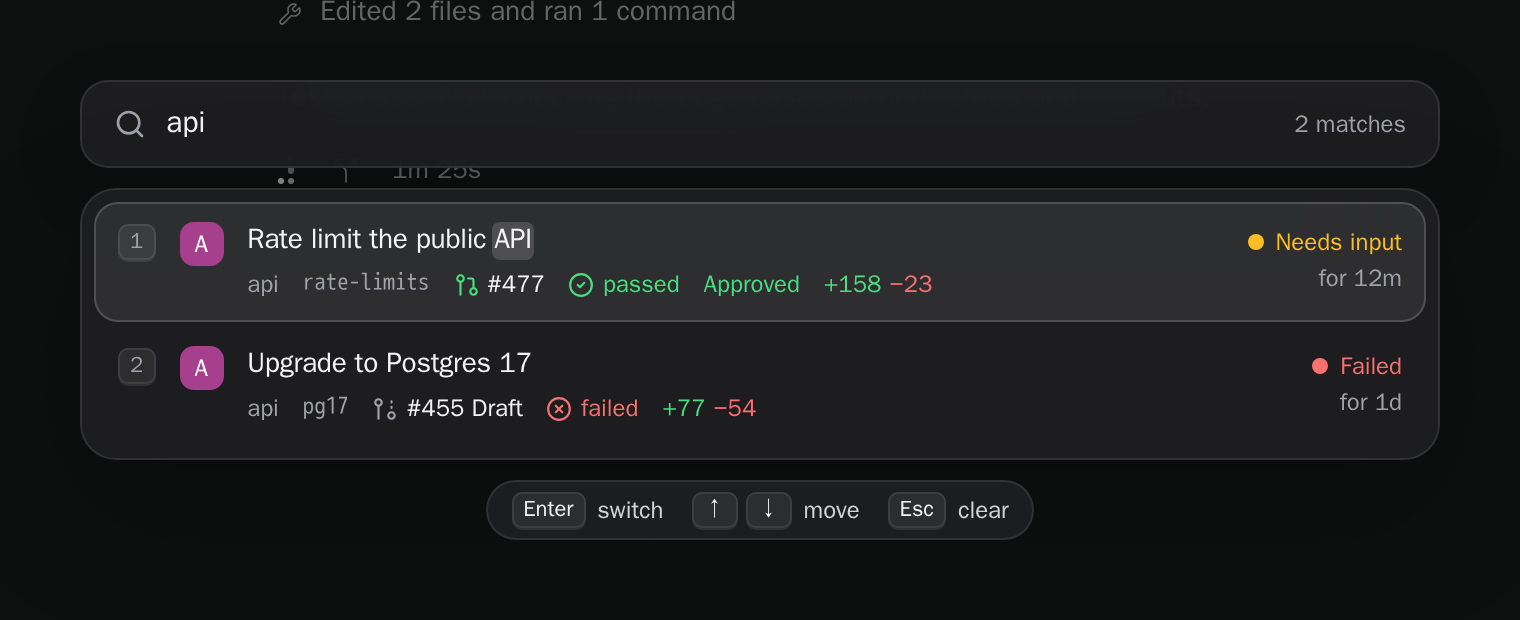
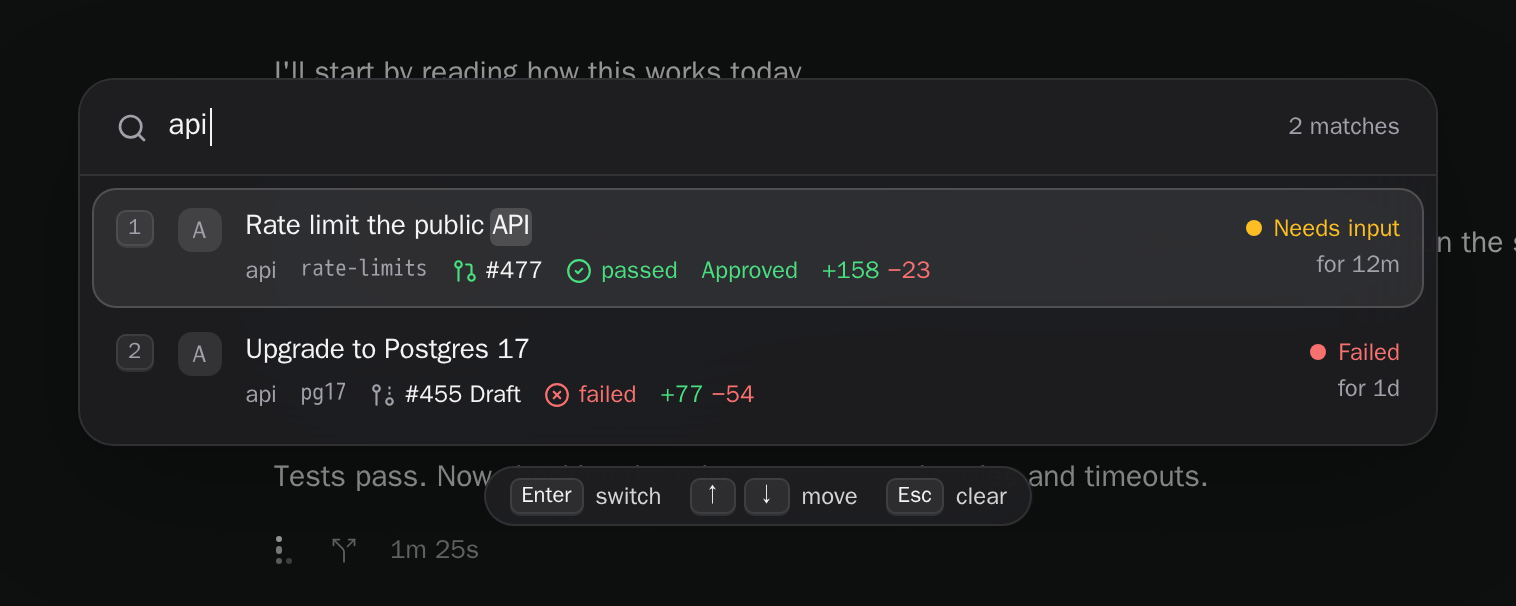
fix: one sheet pinned near the top, honest times and tiles, phone list
From the impeccable finish review:
- The query is the sheet's own header and the sheet is pinned near the top,
  so typing never moves the rows and no page text shows between them.
- Thumbnails crop from the top-left, so the workspace title is never cut.
- Project tiles are neutral; the hashed colours never matched the sidebar.
- Idle times use the workspace's activity time, the one the sidebar shows.
- Phones and windows under 600px use the list; an overflowing strip fades
  at its edges; thumbnail names wrap to two lines.
- The match count reads "9 of 14", not "9+".
- Touch screens get their own single-workspace note.
- Add PRODUCT.md (inferred, labelled) and re-record the README media.

diff --git a/client/switcher.ts b/client/switcher.ts
@@ -125,6 +125,8 @@ export function installSwitcher(paseo: Paseo): Switcher {
   let dark = false;
   /** Typed while the switcher is open; filters every workspace, not only recent ones. */
   let query = "";
+  /** Every match for the query; only the first MAX_LIMIT are listed. */
+  let matches = 0;
   /** The host of the loaded workspace list, for when neither the route nor the history names one. */
   let homeServer: string | null = null;
   const coarse = Boolean(win.matchMedia?.("(hover: none) and (pointer: coarse)").matches);
@@ -202,8 +204,8 @@ export function installSwitcher(paseo: Paseo): Switcher {
             status: w.status,
             additions: w.diffStat?.additions ?? 0,
             deletions: w.diffStat?.deletions ?? 0,
-            // Idle workspaces may have no activity time; fall back to the latest one the daemon has.
-            activityAt: latest(w.activityAt, w.lastUserMessageAt, w.statusEnteredAt, w.createdAt),
+            // The sidebar's own time; idle workspaces may have none, so fall back to the latest one known.
+            activityAt: latest(w.activityAt) || latest(w.lastUserMessageAt, w.statusEnteredAt, w.createdAt),
             statusAt: latest(w.statusEnteredAt),
             ahead: w.gitRuntime?.aheadOfOrigin ?? 0,
             pr: pr
@@ -368,8 +370,9 @@ export function installSwitcher(paseo: Paseo): Switcher {
   function cropOf(width: number, height: number) {
     const w = width / ZOOM;
     const h = Math.min(height, w * ASPECT);
-    // Top-anchored: the tab row names the agent, and a short conversation starts at the top.
-    return { x: (width - w) / 2, y: 0, width: w, height: h };
+    // Anchored top-left: the tab row names the agent, a short conversation starts at the top, and
+    // the conversation column sits left of centre when a side panel is open.
+    return { x: 0, y: 0, width: w, height: h };
   }
 
   const pending = new Map<string, Snapshot>();
@@ -555,7 +558,13 @@ export function installSwitcher(paseo: Paseo): Switcher {
   }
 
   function refreshCards() {
-    cards = query ? filterCards(query, mru, serverId(), workspaces) : buildCards(mru, serverId(), workspaces, limit);
+    if (!query) {
+      cards = buildCards(mru, serverId(), workspaces, limit);
+      return;
+    }
+    const all = filterCards(query, mru, serverId(), workspaces, Infinity);
+    matches = all.length;
+    cards = all.slice(0, MAX_LIMIT);
   }
 
   /** Typing filters; it also turns a held switcher into one that waits for Enter or a click. */
@@ -634,20 +643,22 @@ export function installSwitcher(paseo: Paseo): Switcher {
     }
     const surface = surfaceOf(currentPane() ?? doc.body);
     dark = isDark(surface);
-    const list = layout === "list";
+    // A phone has room for one column; thumbnails would be cut off at the edges.
+    const list = layout === "list" || narrow();
     root.classList.toggle("pws-dark", dark);
     root.classList.toggle("pws-list", list);
     root.classList.toggle("pws-entered", !fresh);
     root.style.setProperty("--pws-surface", surface);
     if (list) {
-      // Rows plus panel padding, against the panel's max height (the window less 180px).
-      overflowing = cards.length * ROW_H + 12 > win.innerHeight - 180;
+      // Rows plus panel padding, against the panel's max height (see .pws-list .pws-panel).
+      overflowing = cards.length * ROW_H + 12 > win.innerHeight - Math.max(48, win.innerHeight * 0.16) - 150;
     } else {
       // Fit every card in the window when possible, within readable thumbnail sizes.
       const fit = Math.floor((win.innerWidth - 96 - 20 - (cards.length - 1) * 6) / Math.max(cards.length, 1)) - 16;
       const cardW = Math.max(CARD_MIN, Math.min(CARD_MAX, fit));
       // Card width + padding + gap, plus panel padding, against the panel's max width.
       overflowing = cards.length * (cardW + 16 + 6) + 14 > win.innerWidth - 96;
+      root.classList.toggle("pws-overflow", overflowing);
       root.style.setProperty("--pws-w", `${cardW}px`);
       root.style.setProperty("--pws-h", `${Math.round(cardW * ASPECT)}px`);
     }
@@ -659,15 +670,26 @@ export function installSwitcher(paseo: Paseo): Switcher {
     if (cards.length) cards.forEach((card, i) => panel.appendChild(list ? renderRow(card, i, at) : renderCard(card, i)));
     else panel.appendChild(emptyState());
     if (!query && cards.length === 1 && cards[0].key === currentKey()) {
-      panel.appendChild(el("div", "pws-note", "Open another workspace, then Ctrl+Tab flips between the two."));
+      const note = touchScreen() ? "Open another workspace to switch between them here." : "Open another workspace, then Ctrl+Tab flips between the two.";
+      panel.appendChild(el("div", "pws-note", note));
     }
-    const parts: Node[] = [];
-    if (query) parts.push(queryBar());
-    parts.push(panel);
+    // One sheet: the query, when there is one, is its header, so typing never moves the rows.
+    const sheet = el("div", "pws-sheet");
+    if (query) sheet.appendChild(queryBar());
+    sheet.appendChild(panel);
+    const parts: Node[] = [sheet];
     if (cards.length || query) parts.push(hintBar());
     root.replaceChildren(...parts);
     if (fresh) host.appendChild(root);
     select();
+  }
+
+  function narrow(): boolean {
+    return win.innerWidth < 600;
+  }
+
+  function touchScreen(): boolean {
+    return coarse || narrow();
   }
 
   /** The typed filter, shown above the results like a search field. */
@@ -677,8 +699,8 @@ export function installSwitcher(paseo: Paseo): Switcher {
     const text = el("span", "pws-query-text", query);
     bar.appendChild(text);
     bar.appendChild(el("span", "pws-caret"));
-    const count = cards.length === 1 ? "1 match" : `${cards.length === MAX_LIMIT ? `${MAX_LIMIT}+` : cards.length} matches`;
-    bar.appendChild(el("span", "pws-query-count", cards.length ? count : ""));
+    const count = matches > cards.length ? `${cards.length} of ${matches}` : matches === 1 ? "1 match" : `${matches} matches`;
+    bar.appendChild(el("span", "pws-query-count", matches ? count : ""));
     return bar;
   }
 
@@ -702,7 +724,7 @@ export function installSwitcher(paseo: Paseo): Switcher {
   /** Keys that work right now, as keycaps. Touch screens get one plain sentence instead. */
   function hintBar(): Node {
     const bar = el("div", "pws-hint");
-    if (coarse || win.innerWidth < 520) {
+    if (touchScreen()) {
       bar.textContent = "Tap a workspace to switch";
       return bar;
     }
@@ -811,9 +833,7 @@ export function installSwitcher(paseo: Paseo): Switcher {
 
     node.appendChild(el("kbd", "pws-number", i < 9 ? String(i + 1) : ""));
     const project = info?.project ?? null;
-    const badge = el("div", "pws-badge", (project ?? "?").slice(0, 1).toUpperCase());
-    badge.style.background = hue(project ?? card.key);
-    node.appendChild(badge);
+    node.appendChild(el("div", "pws-badge", (project ?? "?").slice(0, 1).toUpperCase()));
 
     const main = el("div", "pws-main");
     main.appendChild(nameNode("pws-name", name));
@@ -876,9 +896,7 @@ export function installSwitcher(paseo: Paseo): Switcher {
 
   function placeholder(project: string | null, key: string): Node {
     const box = el("div", "pws-placeholder");
-    const initial = el("div", "pws-initial", (project ?? "?").slice(0, 1).toUpperCase());
-    initial.style.background = hue(project ?? key);
-    box.appendChild(initial);
+    box.appendChild(el("div", "pws-initial", (project ?? "?").slice(0, 1).toUpperCase()));
     box.appendChild(el("div", "pws-placeholder-text", "No preview yet"));
     return box;
   }
@@ -1094,12 +1112,6 @@ function latest(...times: Array<string | null | undefined>): number {
   return best;
 }
 
-function hue(text: string): string {
-  let h = 0;
-  for (let i = 0; i < text.length; i++) h = (h * 31 + text.charCodeAt(i)) % 360;
-  return `hsl(${h} 45% 45%)`;
-}
-
 const PR_ICON = { open: "pr", draft: "prDraft", merged: "merge", closed: "prClosed" } as const;
 const CHECK_ICON = { success: "circleCheck", failure: "circleX", pending: "circle" } as const;
 /** "pending", not Paseo's "running", so checks never read like the agent's own status. */
@@ -1121,7 +1133,9 @@ const ICONS = {
 const CSS = `
 .pws-host { position: fixed; top: 0; left: 0; width: 0; height: 0; z-index: 2147483000; }
 .pws-root {
-  --pws-panel: rgba(246, 246, 247, 0.94);
+  --pws-panel: rgba(246, 246, 247, 0.96);
+  --pws-solid: #f6f6f7;
+  --pws-tile: rgba(0, 0, 0, 0.07);
   --pws-border: rgba(0, 0, 0, 0.1);
   --pws-selected: rgba(0, 0, 0, 0.07);
   --pws-ring: rgba(0, 0, 0, 0.16);
@@ -1140,14 +1154,18 @@ const CSS = `
   --pws-run: #2563eb;
   --pws-merged: #7c3aed;
   position: fixed; inset: 0; z-index: 2147483000; contain: strict;
-  display: flex; flex-direction: column; align-items: center; justify-content: center; gap: 10px;
+  /* Pinned near the top like Spotlight, so the sheet grows downward and never jumps while you type. */
+  display: flex; flex-direction: column; align-items: center; justify-content: flex-start; gap: 10px;
+  padding-top: max(48px, 16vh); box-sizing: border-box;
   background: rgba(24, 24, 27, 0.18);
   font-family: system-ui, -apple-system, BlinkMacSystemFont, "Segoe UI", Roboto, Helvetica, Arial, sans-serif;
   -webkit-font-smoothing: antialiased; user-select: none; -webkit-user-select: none;
   animation: pws-fade 140ms ease-out;
 }
 .pws-root.pws-dark {
-  --pws-panel: rgba(30, 30, 33, 0.92);
+  --pws-panel: rgba(30, 30, 33, 0.95);
+  --pws-solid: #1e1e21;
+  --pws-tile: rgba(255, 255, 255, 0.1);
   --pws-border: rgba(255, 255, 255, 0.09);
   --pws-selected: rgba(255, 255, 255, 0.08);
   --pws-ring: rgba(255, 255, 255, 0.17);
@@ -1168,15 +1186,23 @@ const CSS = `
   background: rgba(0, 0, 0, 0.38);
 }
 /* One authored moment: the panel settles in from just below. Re-renders while open never replay it. */
-.pws-panel, .pws-query { animation: pws-in 180ms cubic-bezier(0.16, 1, 0.3, 1); }
+.pws-sheet { animation: pws-in 180ms cubic-bezier(0.16, 1, 0.3, 1); }
 .pws-hint { animation: pws-fade 220ms ease-out; }
-.pws-entered .pws-panel, .pws-entered .pws-query, .pws-entered .pws-hint { animation: none; }
-.pws-panel {
-  display: flex; gap: 6px; padding: 10px; max-width: calc(100vw - 96px); box-sizing: border-box; overflow-x: auto;
+.pws-entered .pws-sheet, .pws-entered .pws-hint { animation: none; }
+.pws-sheet {
+  display: flex; flex-direction: column; max-width: calc(100vw - 96px); box-sizing: border-box; overflow: hidden;
   background: var(--pws-panel); border: 1px solid var(--pws-border); border-radius: 22px;
   backdrop-filter: blur(28px) saturate(1.4); -webkit-backdrop-filter: blur(28px) saturate(1.4);
   box-shadow: 0 24px 64px rgba(0, 0, 0, 0.26), 0 2px 8px rgba(0, 0, 0, 0.1);
+}
+.pws-panel {
+  display: flex; gap: 6px; padding: 10px; box-sizing: border-box; overflow-x: auto;
   scrollbar-width: thin; scrollbar-color: var(--pws-ring) transparent;
+}
+/* An overflowing strip fades at its edges instead of cutting a card mid-word. */
+.pws-overflow .pws-panel {
+  -webkit-mask-image: linear-gradient(to right, transparent, #000 28px, #000 calc(100% - 28px), transparent);
+  mask-image: linear-gradient(to right, transparent, #000 28px, #000 calc(100% - 28px), transparent);
 }
 .pws-card {
   flex: 0 0 auto; width: var(--pws-w); padding: 8px 8px 10px; border-radius: 15px; cursor: default;
@@ -1193,8 +1219,8 @@ const CSS = `
   background: var(--pws-faint);
 }
 .pws-initial {
-  width: 36px; height: 36px; border-radius: 10px; color: #fff; font-size: 17px; font-weight: 650;
-  display: flex; align-items: center; justify-content: center; opacity: 0.9;
+  width: 36px; height: 36px; border-radius: 10px; background: var(--pws-tile); color: var(--pws-muted); font-size: 17px; font-weight: 650;
+  display: flex; align-items: center; justify-content: center;
 }
 .pws-placeholder-text { color: var(--pws-muted); font-size: 12px; }
 .pws-number, .pws-kbd {
@@ -1205,6 +1231,9 @@ const CSS = `
 }
 .pws-thumb .pws-number { position: absolute; top: 6px; right: 6px; }
 .pws-title { display: flex; align-items: center; gap: 7px; margin: 10px 2px 0; min-width: 0; }
+.pws-card:not(.pws-row) .pws-name {
+  white-space: normal; display: -webkit-box; -webkit-line-clamp: 2; -webkit-box-orient: vertical; overflow-wrap: anywhere; line-height: 19px;
+}
 .pws-name {
   color: var(--pws-fg); font-size: 14px; font-weight: 600; letter-spacing: -0.01em;
   overflow: hidden; text-overflow: ellipsis; white-space: nowrap;
@@ -1237,14 +1266,11 @@ const CSS = `
 .pws-hint-type { color: var(--pws-muted); }
 .pws-hint .pws-kbd { color: var(--pws-fg); }
 .pws-query {
-  display: flex; align-items: center; gap: 10px; box-sizing: border-box;
-  width: min(520px, calc(100vw - 32px)); height: 44px; padding: 0 16px;
-  background: var(--pws-panel); border: 1px solid var(--pws-border); border-radius: 14px;
-  backdrop-filter: blur(28px) saturate(1.4); -webkit-backdrop-filter: blur(28px) saturate(1.4);
-  box-shadow: 0 12px 32px rgba(0, 0, 0, 0.18);
+  display: flex; align-items: center; gap: 10px; box-sizing: border-box; flex: 0 0 auto;
+  height: 48px; padding: 0 18px; min-width: 0;
+  background: var(--pws-solid); border-bottom: 1px solid var(--pws-border);
   color: var(--pws-fg); font-size: 15px;
 }
-.pws-list .pws-query { width: min(680px, calc(100vw - 32px)); }
 .pws-query-icon { width: 16px; height: 16px; color: var(--pws-muted); flex: 0 0 auto; }
 .pws-query-text { white-space: pre; overflow: hidden; text-overflow: ellipsis; min-width: 0; font-weight: 500; }
 .pws-caret { flex: 0 0 auto; width: 1.5px; height: 19px; margin-left: -9px; background: var(--pws-fg); animation: pws-blink 1s steps(1) infinite; }
@@ -1254,9 +1280,10 @@ const CSS = `
 .pws-empty-text { color: var(--pws-muted); font-size: 12.5px; margin-top: 4px; }
 .pws-loading { display: inline-flex; align-items: center; gap: 8px; font-weight: 500; color: var(--pws-muted); }
 .pws-note { color: var(--pws-muted); font-size: 12px; padding: 6px 12px 6px 48px; }
+.pws-list .pws-sheet { width: min(680px, calc(100vw - 32px)); max-width: none; border-radius: 18px; }
 .pws-list .pws-panel {
-  flex-direction: column; gap: 2px; padding: 6px; width: min(680px, calc(100vw - 32px)); max-width: none;
-  max-height: calc(100vh - 180px); overflow-x: hidden; overflow-y: auto; border-radius: 18px;
+  flex-direction: column; gap: 2px; padding: 6px;
+  max-height: calc(100vh - max(48px, 16vh) - 150px); overflow-x: hidden; overflow-y: auto;
 }
 .pws-row {
   display: grid; grid-template-columns: auto auto minmax(0, 1fr) auto; align-items: start; column-gap: 12px;
@@ -1264,7 +1291,7 @@ const CSS = `
 }
 .pws-list .pws-number { margin-top: 1px; }
 .pws-badge {
-  width: 22px; height: 22px; border-radius: 7px; color: #fff; font-size: 12px; font-weight: 650;
+  width: 22px; height: 22px; border-radius: 7px; background: var(--pws-tile); color: var(--pws-muted); font-size: 12px; font-weight: 650;
   display: flex; align-items: center; justify-content: center;
 }
 .pws-main { min-width: 0; }
@@ -1290,7 +1317,7 @@ const CSS = `
 .pws-status-failed { color: var(--pws-bad); }
 .pws-time { color: var(--pws-muted); font-variant-numeric: tabular-nums; line-height: 17px; margin-top: 3px; }
 .pws-status + .pws-time { margin-top: 0; }
-@media (max-width: 520px) {
+@media (max-width: 599px) {
   .pws-row { grid-template-columns: auto minmax(0, 1fr) auto; column-gap: 10px; padding: 10px; }
   .pws-badge { display: none; }
   .pws-note { padding-left: 12px; }

diff --git a/PRODUCT.md b/PRODUCT.md
@@ -1,0 +1,68 @@
+# Workspace Switcher
+
+<!-- impeccable:product-schema 1 -->
+
+> Written during the November 2026 UI polish pass without a live interview. Facts come from the
+> README, AGENTS.md, TESTING.md, the code and the owner's written brief; lines marked _(inferred)_
+> are assumptions to confirm.
+
+## Platform
+
+web
+
+## Users
+
+Developers who keep many Paseo workspaces open at once, one per branch or task, with agents running
+in several of them, and who move between them by keyboard all day. _(inferred)_ They switch dozens
+of times an hour and notice any delay.
+
+## Product Purpose
+
+Get to the workspace you want without looking for it: Ctrl+Tab goes back to the last one, holding
+Ctrl steps through the recent ones, and typing finds any of them. Each row says enough (name,
+branch, pull request, checks, agent status) to pick the right one at a glance. Success is a switch
+that feels instant and never lands in the wrong place.
+
+## Positioning
+
+Arc's Ctrl+Tab for Paseo: most-recent order, a quick tap that flips back without drawing, and a
+held key that browses. Unlike Paseo's sidebar, it ranks by your own visits and shows status for the
+few workspaces you are juggling. _(inferred)_
+
+## Operating Context
+
+- Entry points: Ctrl+Tab / Ctrl+Shift+Tab anywhere in the desktop app or web UI, and **Switch
+  workspace (Ctrl+Tab)** in the Command Center for browser tabs and phone browsers.
+- An overlay drawn with plain DOM above the app, outside React, because it must open in a few
+  milliseconds; it reads Paseo's page structure (route, sidebar rows, workspace panes), pinned to
+  Paseo 0.15.
+- Light and dark follow the workspace surface it opens over.
+
+## Capabilities and Constraints
+
+- Speed is the product: nothing runs on a navigation path; budgets are enforced by the end-to-end
+  suite (quick tap < 5 ms, opening < 30 ms, moving < 5 ms, typing a filter < 30 ms, strip gone
+  < 60 ms after release, sidebar switching no slower with the plugin).
+- Thumbnails are rasterized only in idle time and kept in memory; the default list layout does no
+  background work.
+- Settings and visit history live in the browser's localStorage per device.
+- Does nothing on iOS and Android.
+
+## Brand Commitments
+
+Part of Tom Gringauz's Paseo plugin family (Follow-up, Defer, Smart Session, Transcript Search,
+Transfer, Vitals): native to Paseo, plain short copy, the shared slate icon tile. This plugin draws
+its own overlay, so it mirrors Paseo's status language (blue running ring, amber needs input, red
+failed, green finished) rather than host theme tokens.
+
+## Evidence on Hand
+
+An isolated harness daemon with nine sample workspaces and demo agents; injected sample pull
+request data; the end-to-end suite's timings. Registry installs: 2 at the time of this pass.
+
+## Product Principles
+
+1. Never slower than not having it.
+2. Recency first: the order never reshuffles by status, so muscle memory holds.
+3. Say what Paseo says: the same status words and colours as the sidebar.
+4. Keys are the interface; the mouse and touch work but are never required.
